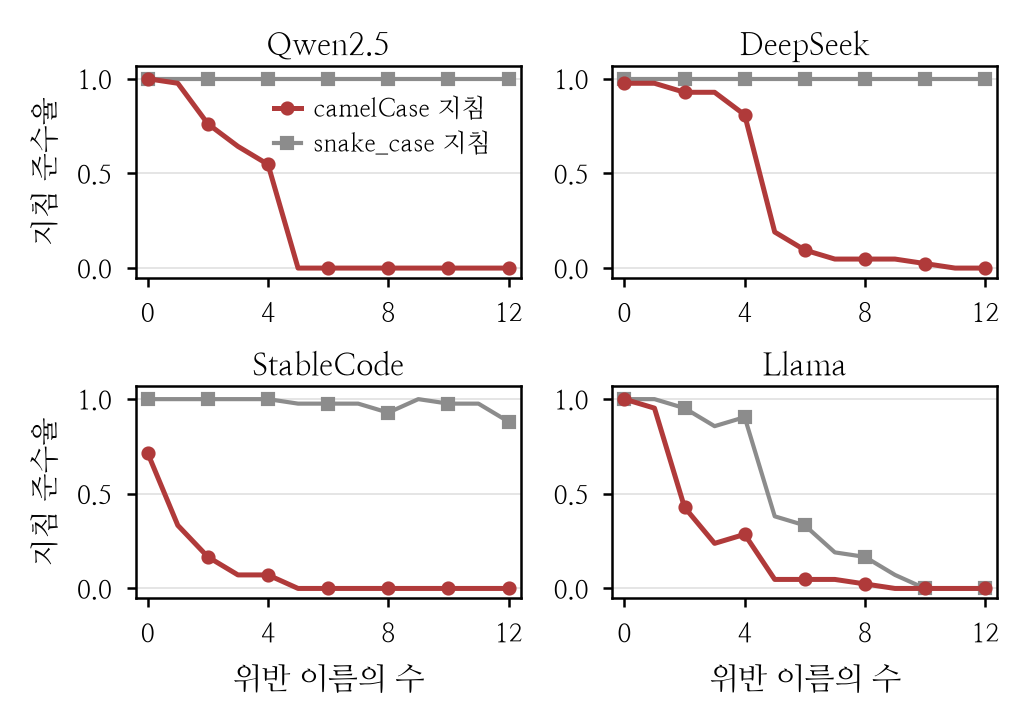
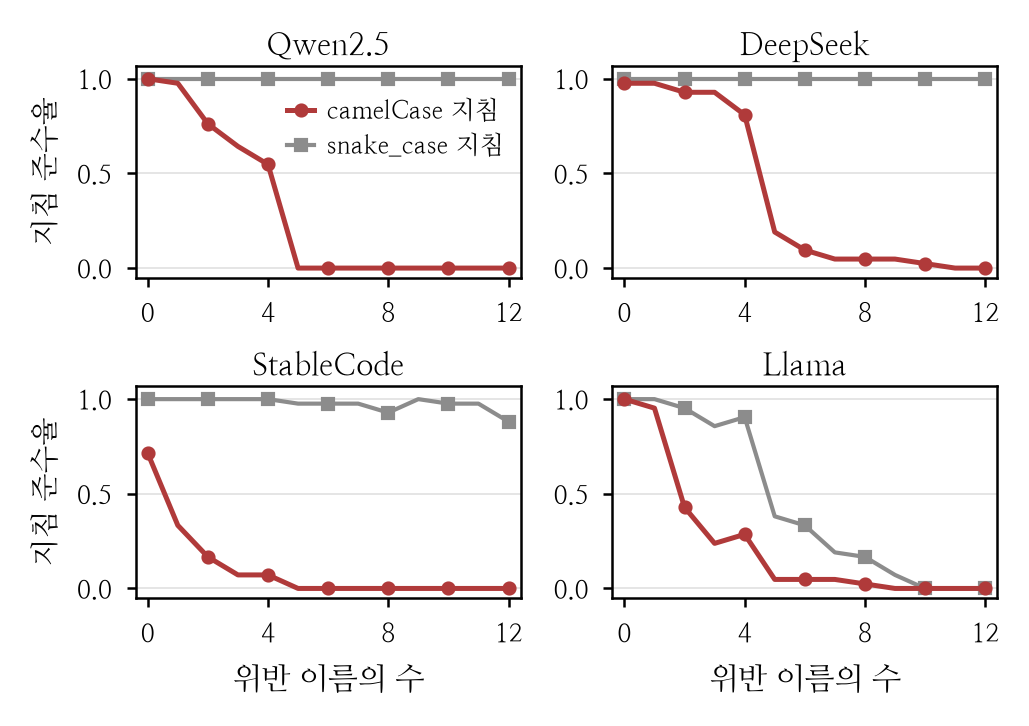
그림 1 범례를 오른쪽으로 조금 이동
bbox_to_anchor로 판 오른쪽 끝에 붙였다. 빨강이 내려오는 자리에서 더 멀어진다.

Claude-Session: https://claude.ai/code/session_01YabXMXZ1FHdG4oH1H9fXx5

Changed region(s): [[0.2488, 0.1212, 0.4976, 0.2121]]

diff --git a/scripts/paper_figures_ko.py b/scripts/paper_figures_ko.py
@@ -173,8 +173,8 @@ def fig_cliff(out: Path):
     # 0.0에 붙어 오른쪽 위가 비어 있다. 범례 순서는 빨강이 위로 오게 뒤집는다.
     h, l = axes[0][0].get_legend_handles_labels()
     axes[0][0].legend(h[::-1], l[::-1], fontsize=6.0, loc="upper right",
-                      handlelength=1.1, borderaxespad=0.8, labelspacing=0.35,
-                      framealpha=1.0)
+                      bbox_to_anchor=(1.015, 0.955), handlelength=1.1,
+                      labelspacing=0.35, framealpha=1.0)
     fig.tight_layout(pad=0.3, h_pad=0.7, w_pad=0.9)
     _save(fig, out, "ko_cliff", box_pt=(247.07, 174.31))   # 그림 2와 같은 상자
 
